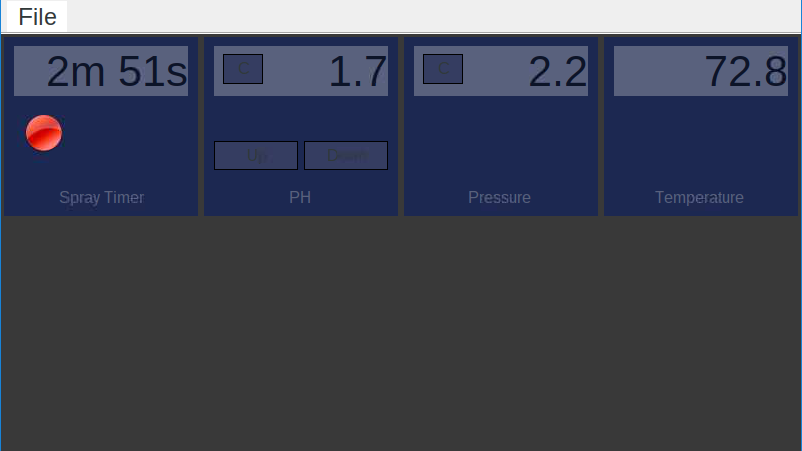
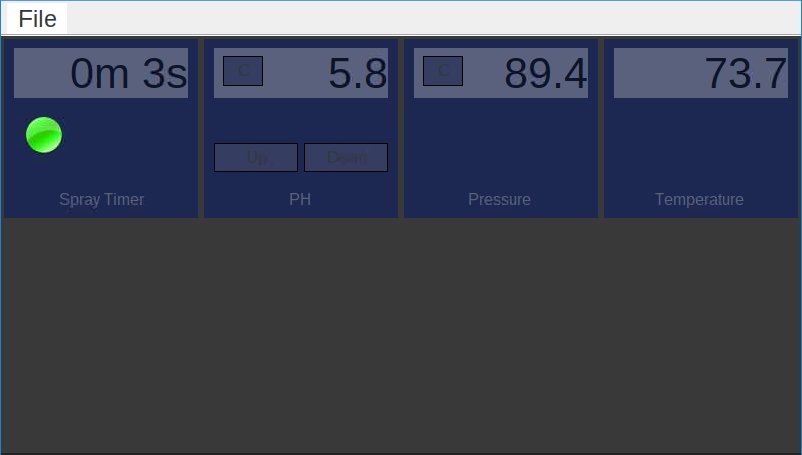
fixed i2c , needs double read after write to ask for data, new screenshot

diff --git a/PiDro/Tiles/PressureComponent.cs b/PiDro/Tiles/PressureComponent.cs
@@ -84,8 +84,11 @@ namespace HydroTest.Tiles
 
         public void calibratePressureAuto()
         {
+           
             Double phV = getPressureVoltage();
             Double vCutoff = 2.8;
+
+            Console.WriteLine("Calibrating Pressure: " + phV.ToString());
 
             if (phV >= vCutoff)
             {
@@ -105,10 +108,11 @@ namespace HydroTest.Tiles
             double adSteps = 255;
             double result = 0.0;
             byte buffer;
-            int sensorId = 0;
+            int sensorId = 1;
             try
             {
                 myDevice.Write((byte)(0x40 | (sensorId & 3)));
+                buffer = (byte)myDevice.Read();
                 buffer = (byte)myDevice.Read();
                 short unsignedValue = (short)((short)0x00FF & buffer);
                 result = unsignedValue * measuredVoltage / adSteps;
@@ -123,7 +127,7 @@ namespace HydroTest.Tiles
         
         private void UpdateTimer_Tick(object sender, EventArgs e)
         {
-            pressureTile.set(getPressureVoltage().ToString("N1"));
+            pressureTile.set(getPressure().ToString("N1"));
         }
     
         public System.Windows.Forms.Control GetTile()

diff --git a/PiDro/Tiles/PHComponent.cs b/PiDro/Tiles/PHComponent.cs
@@ -119,12 +119,13 @@ namespace HydroTest.Tiles
             double adSteps = 255;
             double result = 0.0;
             byte buffer;
-
+            int sensorId = 0;
             try
             {
-                myDevice.Write((byte)(0x40 | (1 & 3)));
+                myDevice.Write((byte)(0x40 | (sensorId & 3)));
                 buffer = (byte)myDevice.Read();
-                
+                buffer = (byte)myDevice.Read();
+
                 short unsignedValue = (short)((short)0x00FF & buffer);
                 result = unsignedValue * measuredVoltage / adSteps;
             }
@@ -189,7 +190,7 @@ namespace HydroTest.Tiles
 
         private void UpdateTimer_Tick(object sender, EventArgs e)
         {
-            phTile.set(getPHVoltage().ToString("N1"));
+            phTile.set(getPH().ToString("N1"));
         }
     
         public System.Windows.Forms.Control GetTile()
